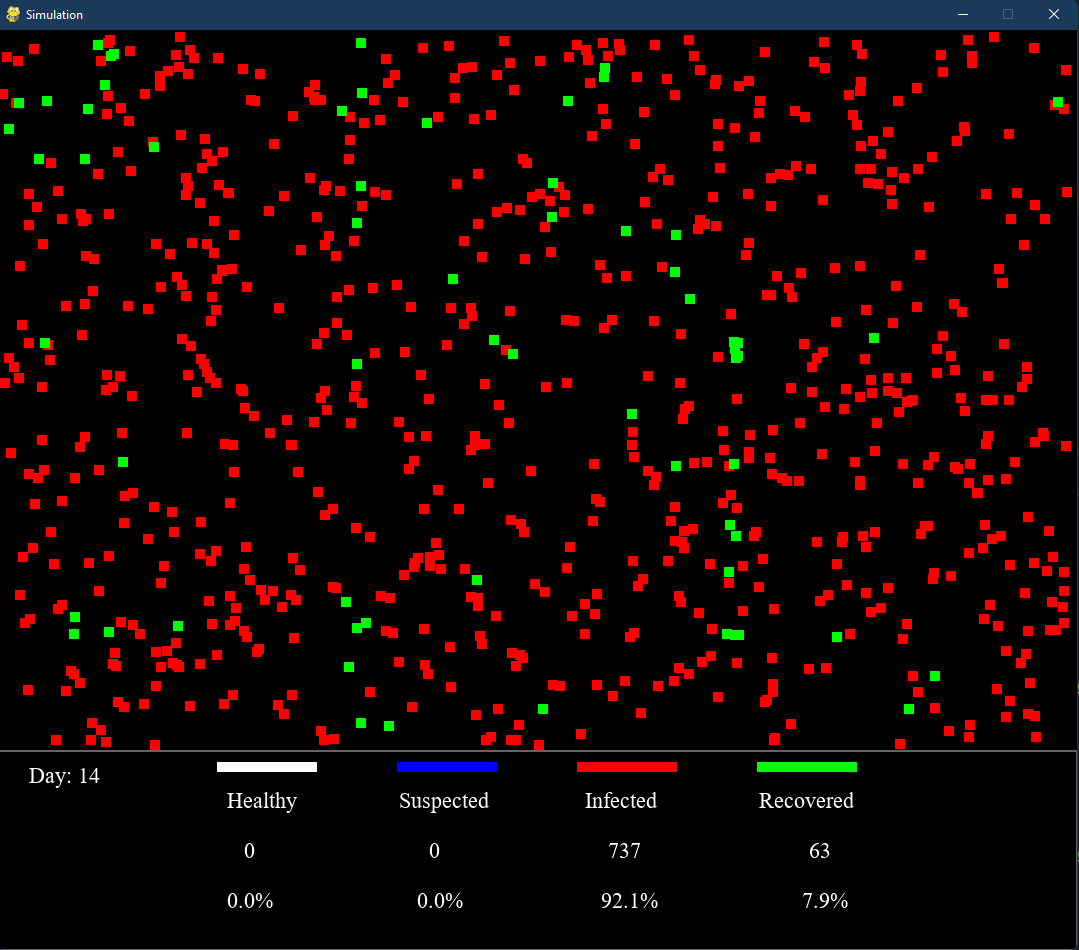
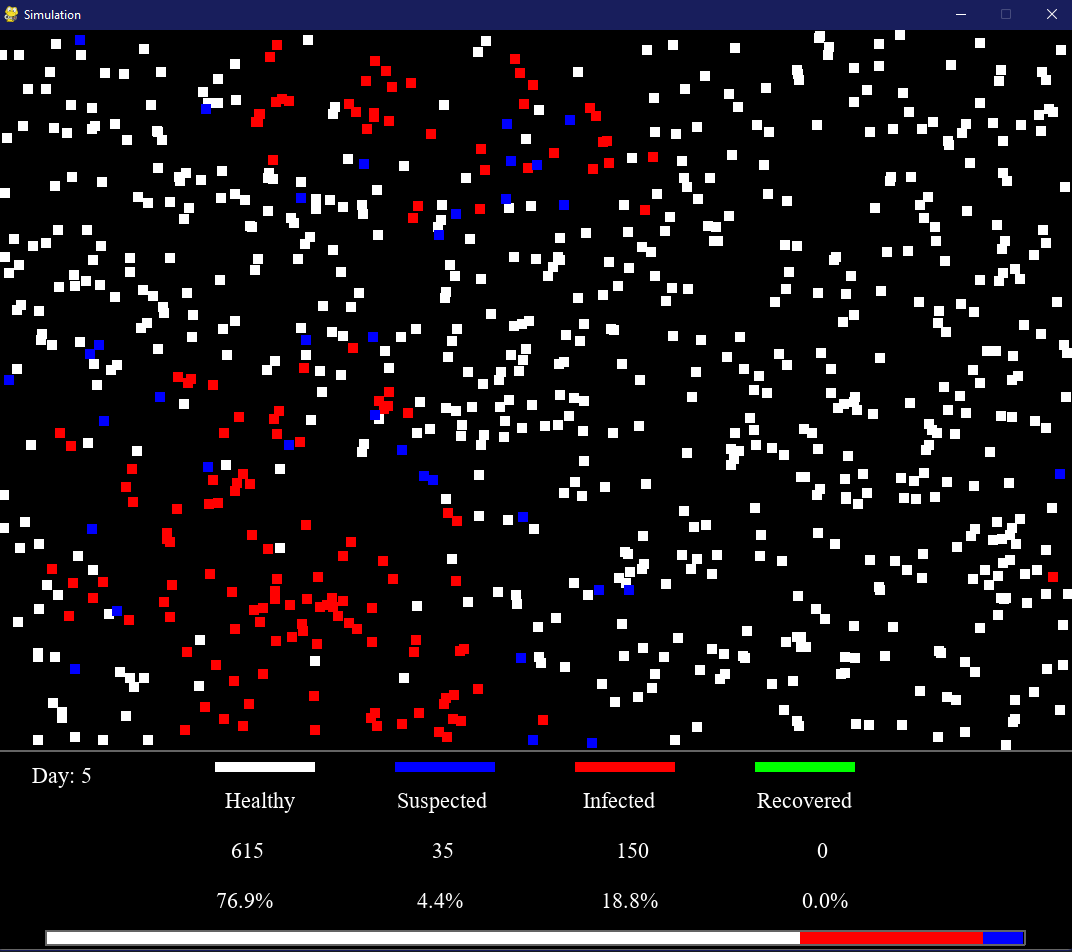
Add status bar

Changed region(s): [[0.0, 0.0, 1.0, 1.0], [0.0, 0.7021, 0.0308, 0.7326]]

diff --git a/CovidSimulation.py b/CovidSimulation.py
@@ -89,11 +89,11 @@ class Simulation:
         self.simulation_time = simulation_time * self.FPS
 
         self.history = {
-            "Day": [],
-            "Healthy": [],
-            "Suspected": [],
-            "Infected": [],
-            "Recovered": []
+            "Day": [0],
+            "Healthy": [self.initial_healthy],
+            "Suspected": [self.initial_suspected],
+            "Infected": [self.initial_infected],
+            "Recovered": [0]
         }
 
         # Setting up Pygame
@@ -136,6 +136,8 @@ class Simulation:
         pygame.draw.rect(self.screen, GREY, pygame.Rect(
             0, self.hight, self.width, self.stat_size), 2)
 
+        self.show_bar()
+
         pygame.draw.rect(self.screen, WHITE, pygame.Rect(
             220, self.hight + (self.stat_size // 16), BLOB_SIZE * 10, BLOB_SIZE))
         pygame.draw.rect(self.screen, BLUE, pygame.Rect(
@@ -149,6 +151,28 @@ class Simulation:
         self.infected.draw(self.screen)
         self.suspected.draw(self.screen)
         self.recovered.draw(self.screen)
+
+    def show_bar(self):
+        bar_length = self.width - 100
+        ratio = self.population_size / bar_length
+        healthy_bar = pygame.Rect(
+            50, self.hight + self.stat_size - 20, self.history["Healthy"][-1] // ratio, 15)
+        pygame.draw.rect(self.screen, WHITE, healthy_bar)
+
+        infected_bar = pygame.Rect(
+            healthy_bar.right, self.hight + self.stat_size - 20, self.history["Infected"][-1] // ratio, 15)
+        pygame.draw.rect(self.screen, RED, infected_bar)
+
+        suspected_bar = pygame.Rect(
+            infected_bar.right, self.hight + self.stat_size - 20, self.history["Suspected"][-1] // ratio, 15)
+        pygame.draw.rect(self.screen, BLUE, suspected_bar)
+
+        recovered_bar = pygame.Rect(
+            suspected_bar.right, self.hight + self.stat_size - 20, self.history["Recovered"][-1] // ratio, 15)
+        pygame.draw.rect(self.screen, GREEN, recovered_bar)
+
+        pygame.draw.rect(self.screen, GREY, pygame.Rect(
+            50, self.hight + self.stat_size - 20, bar_length, 15), 2)
 
     def show_text(self, surface, position, background=BLACK):
         rect = surface.get_rect(center=position)
@@ -195,8 +219,17 @@ class Simulation:
             f"{f'{len(self.recovered) / (self.population_size + len(self.healthy)):.1%}':^28}",
             True, WHITE
         )
-        self.show_text(stat_surface, (self.width // 2,
-                       self.hight + self.stat_size - 50))
+        self.show_text(
+            stat_surface,
+            (self.width // 2, self.hight + self.stat_size - 50))
+
+    def show_graph(self):
+        df = pd.DataFrame(self.history)
+        df.groupby("Day").mean().plot()
+        plt.title("Overview of the simulation")
+        plt.grid(True)
+        plt.style.use("ggplot")
+        plt.show()
 
     def start(self):
         # Initialize the simulation
@@ -232,14 +265,6 @@ class Simulation:
         pygame.quit()
         self.show_graph()
         sys.exit()
-
-    def show_graph(self):
-        df = pd.DataFrame(self.history)
-        df.groupby("Day").mean().plot()
-        plt.title("Overview of the simulation")
-        plt.grid(True)
-        plt.style.use("ggplot")
-        plt.show()
 
 
 if __name__ == '__main__':
